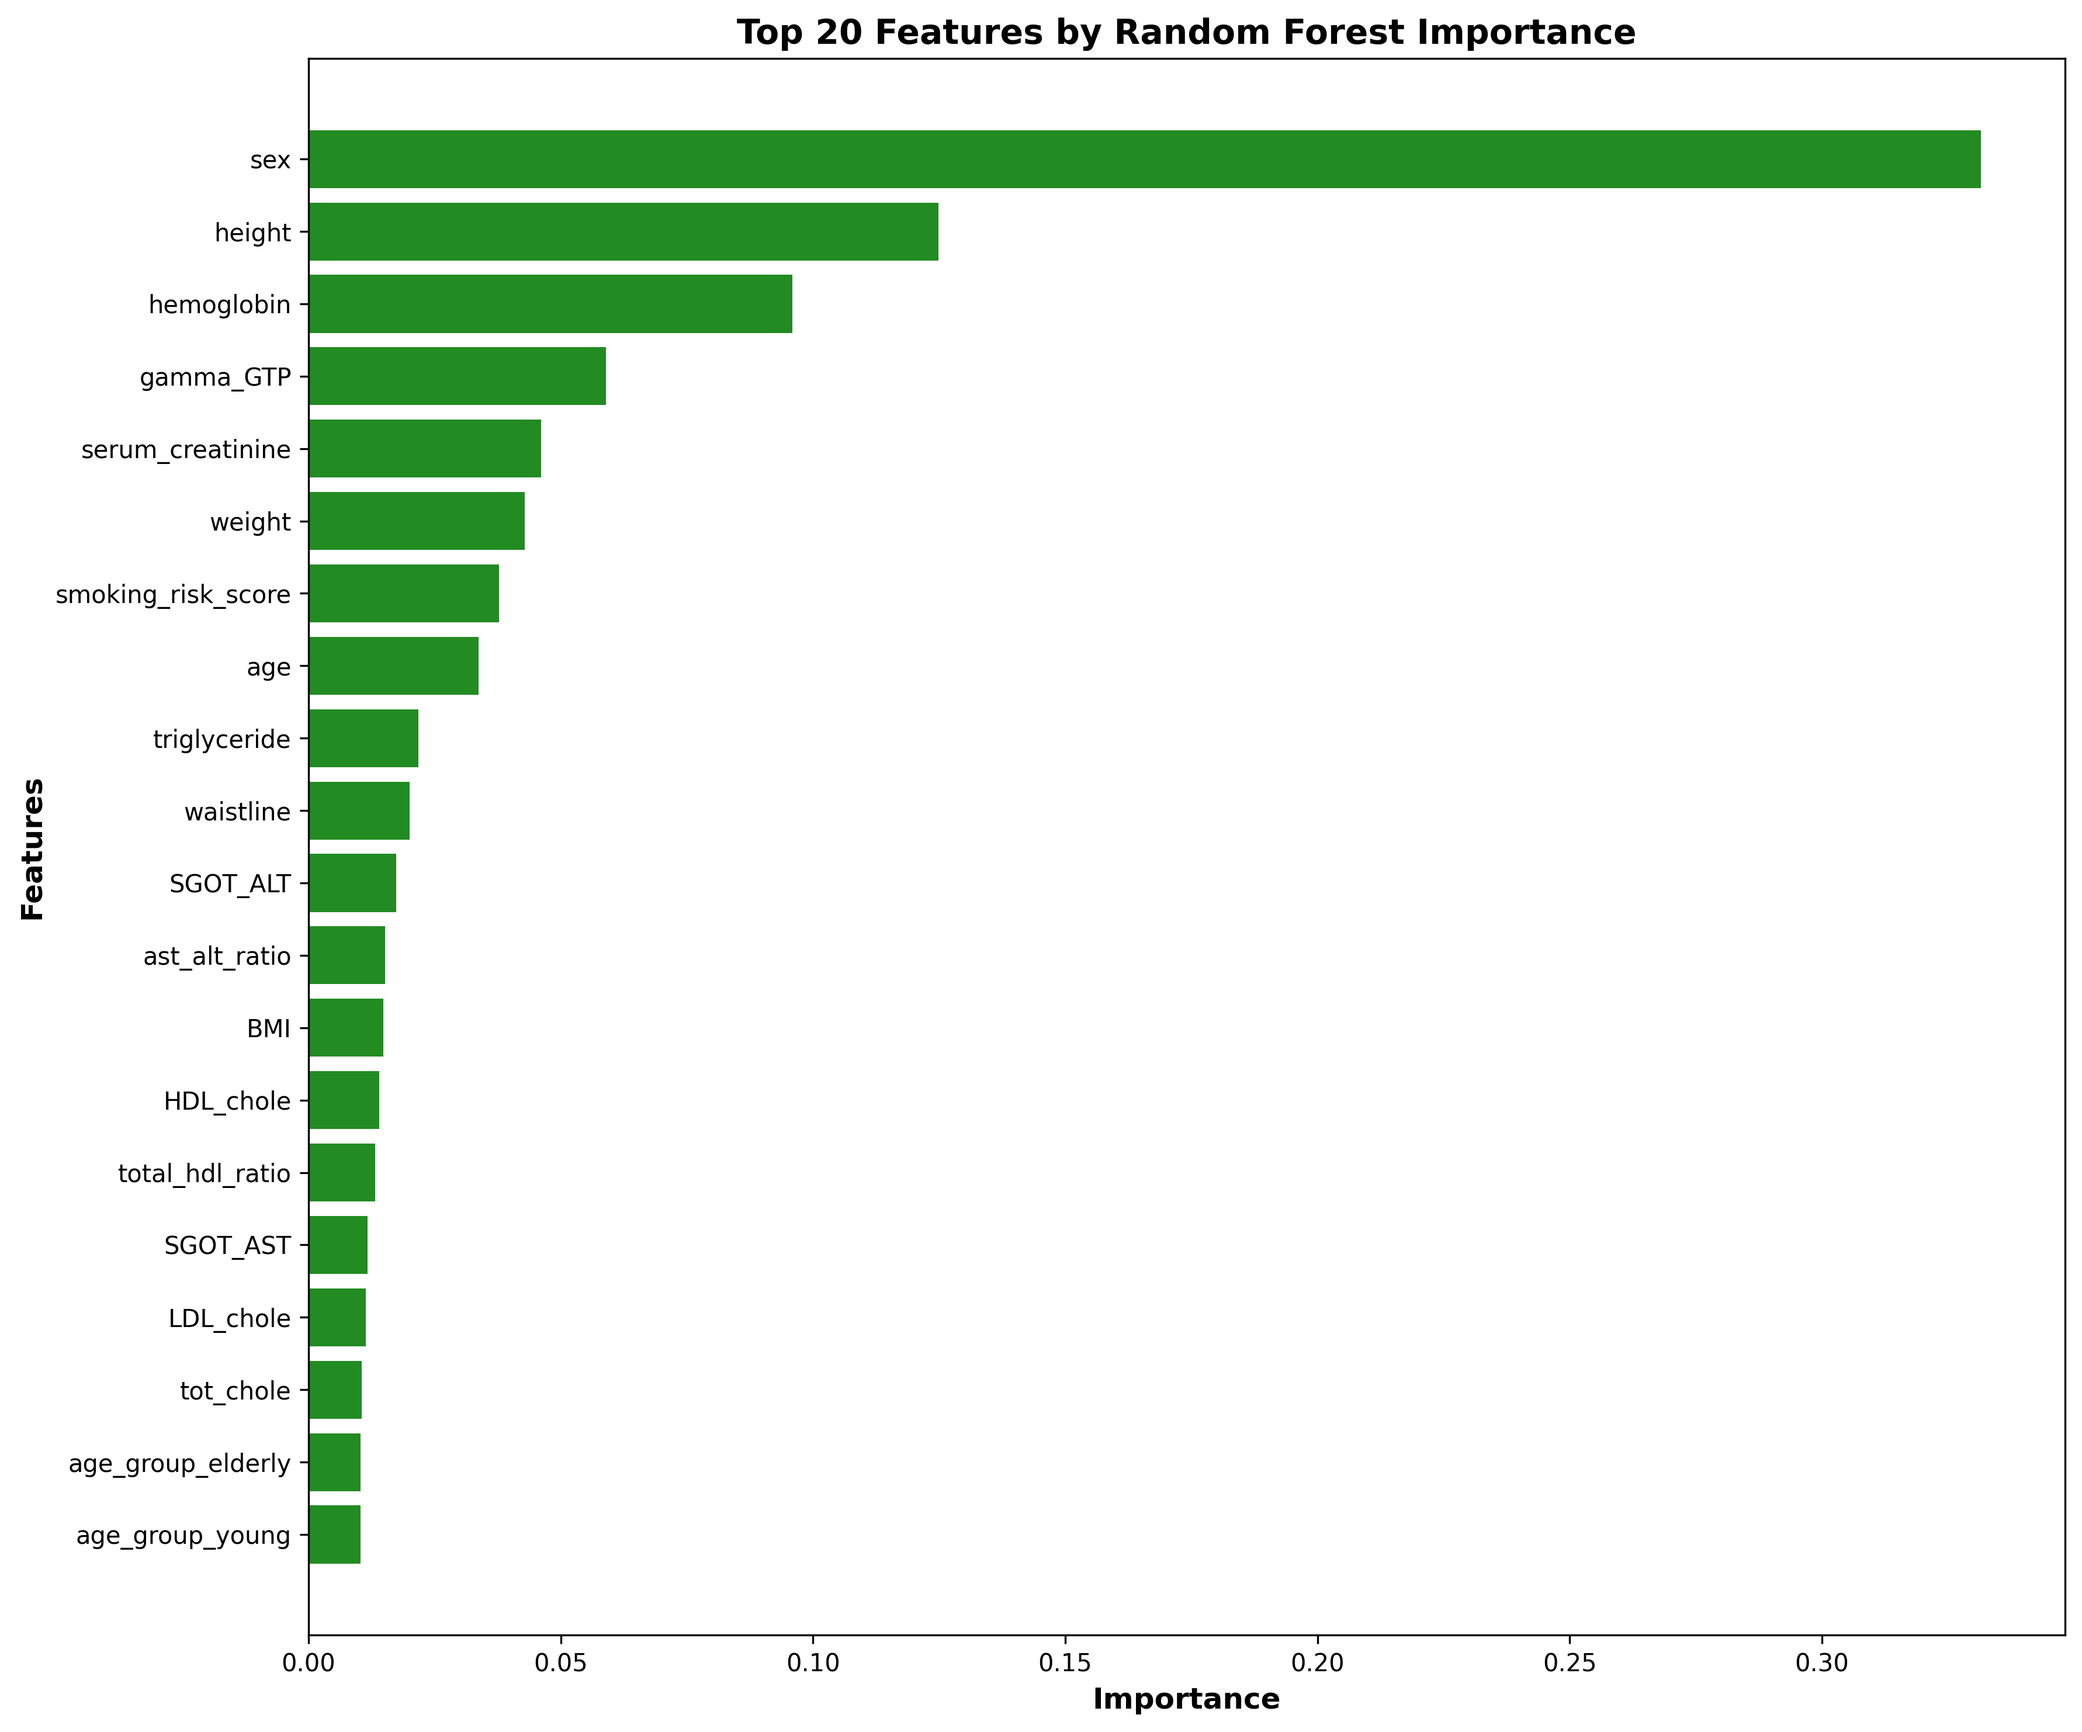
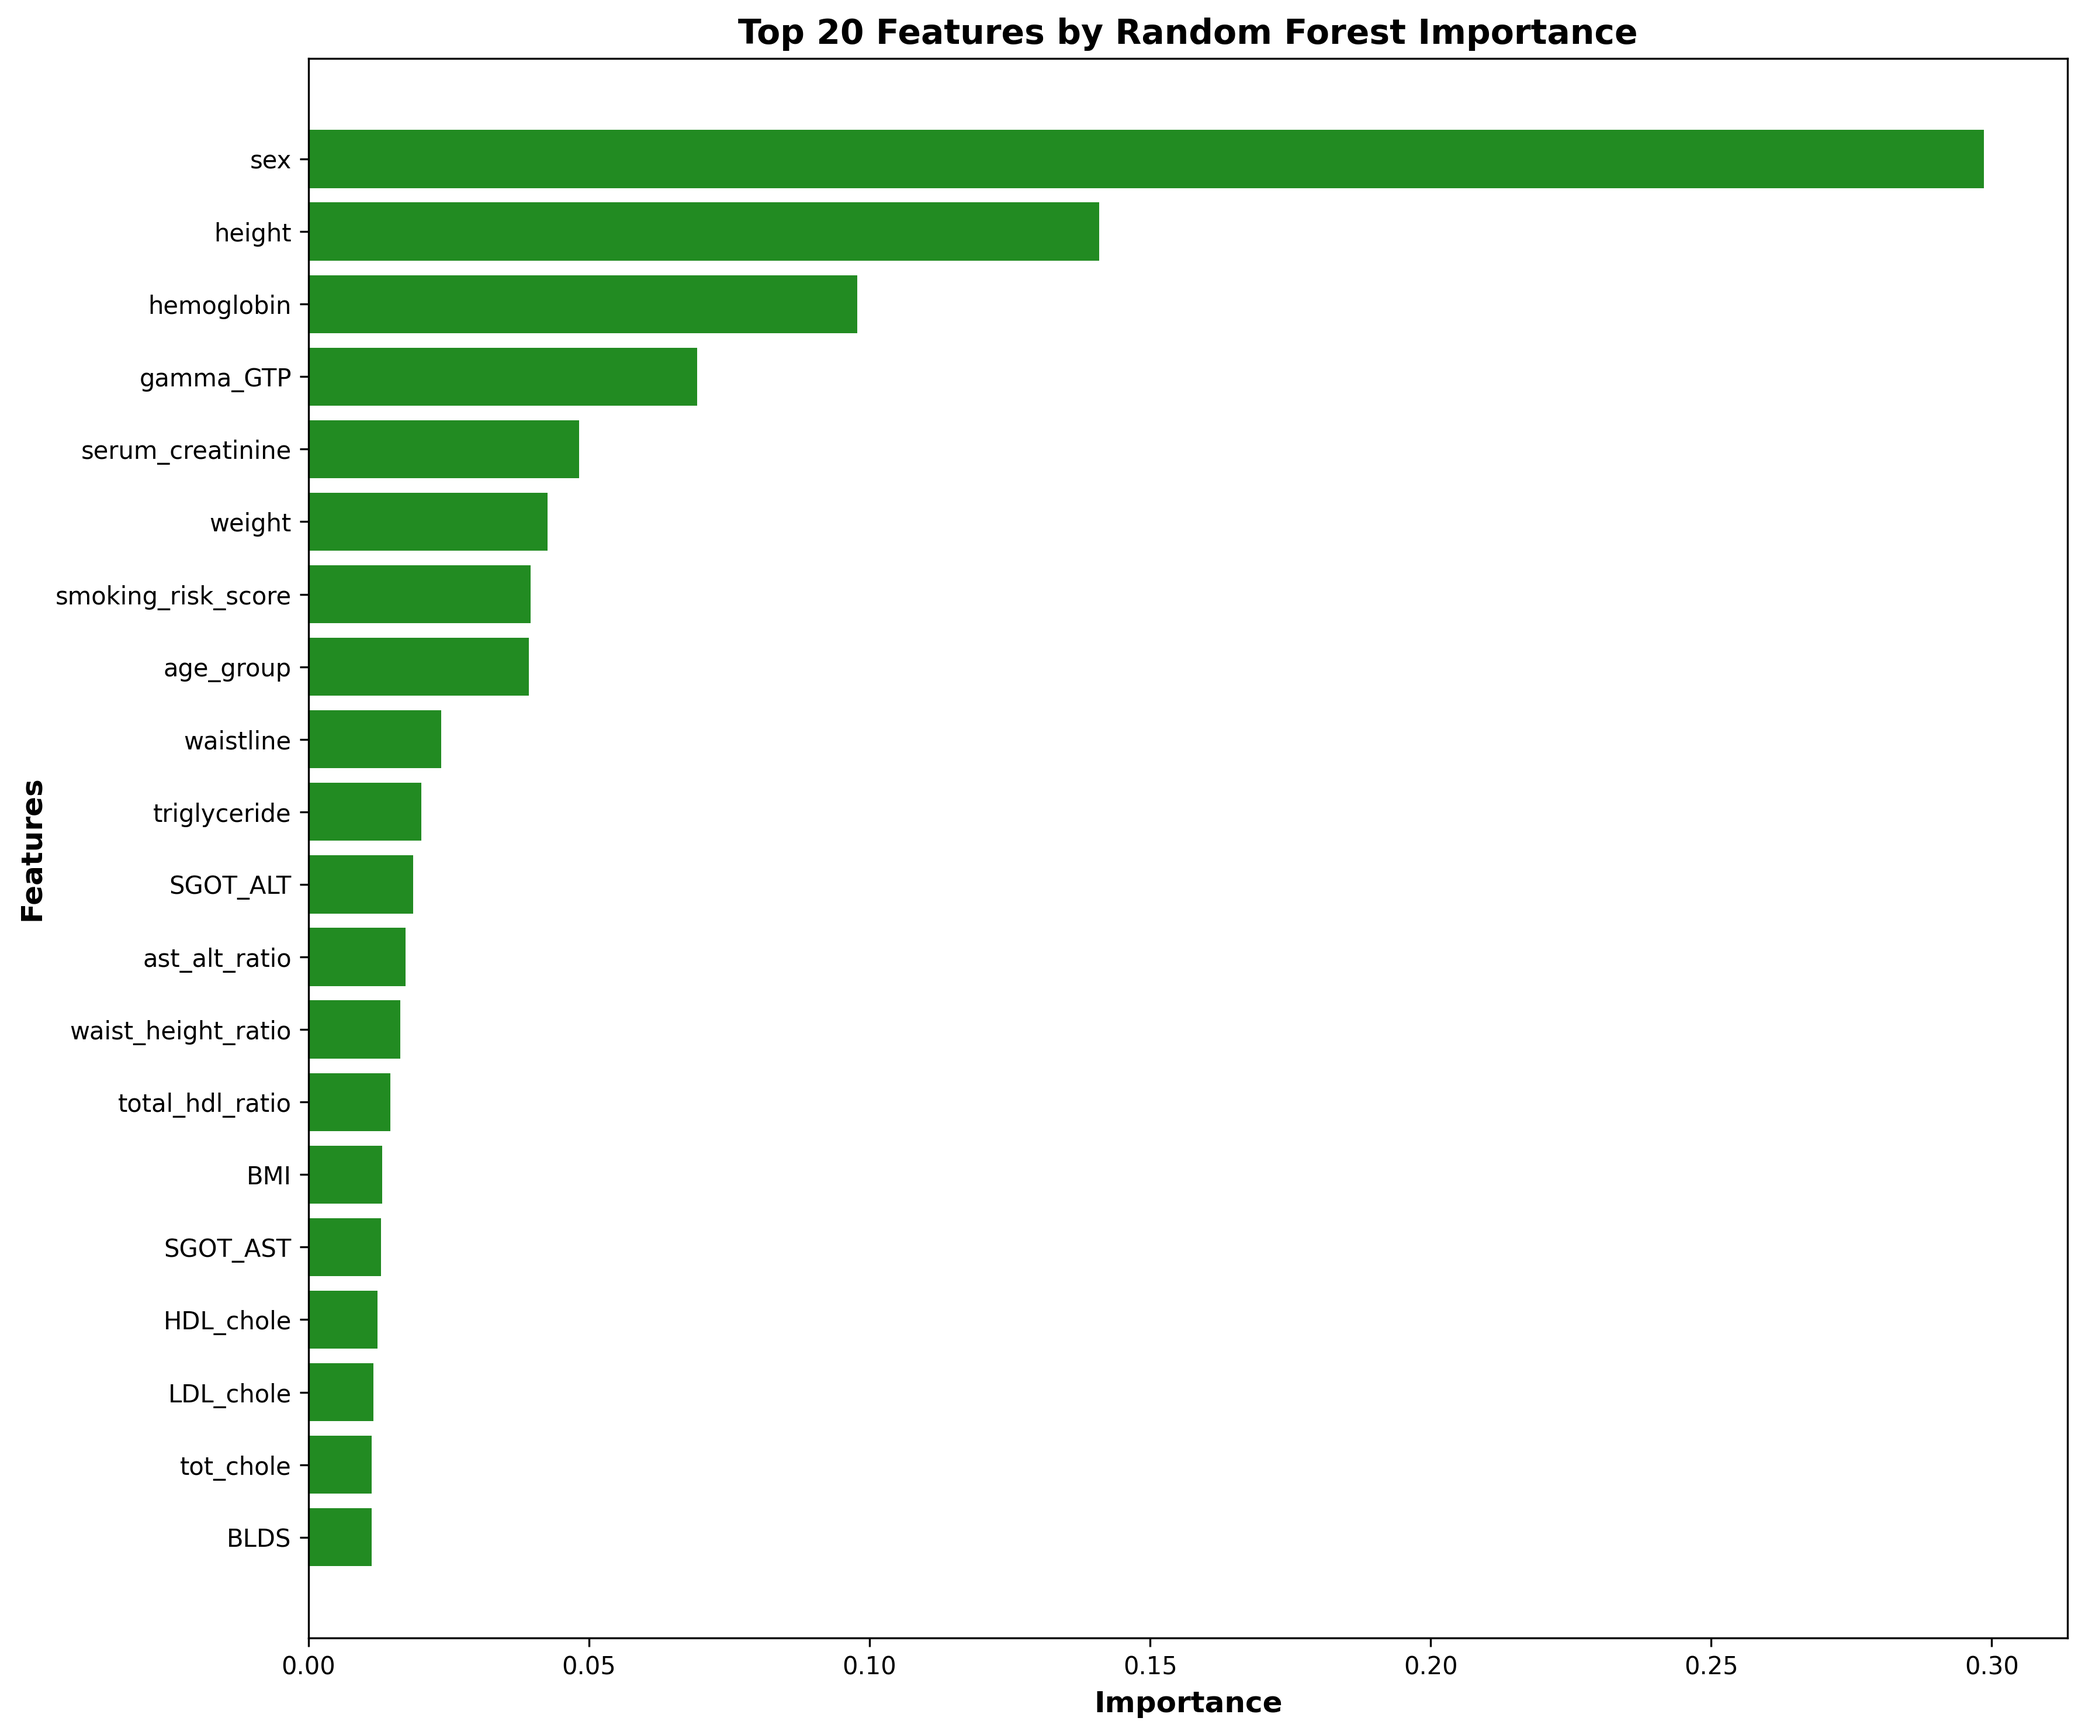
små endringer

diff --git a/features/select_features.py b/features/select_features.py
@@ -49,20 +49,24 @@ print("="*80)
 # Check for categorical columns
 categorical_cols = X.select_dtypes(include=['object', 'category']).columns.tolist()
 
+# IMPORTANT: age_group is already numeric (0, 1, 2, 3) - don't encode it!
+if 'age_group' in categorical_cols:
+    categorical_cols.remove('age_group')
+    print("ℹ  'age_group' is already numeric - skipping encoding")
+
 if categorical_cols:
-    print(f"Found {len(categorical_cols)} categorical column(s): {categorical_cols}")
+    print(f"Found {len(categorical_cols)} categorical column(s) to encode: {categorical_cols}")
     
-    # One-hot encode age_group
-    if 'age_group' in categorical_cols:
-        print("\nOne-hot encoding 'age_group'...")
-        age_group_dummies = pd.get_dummies(X['age_group'], prefix='age_group', drop_first=True)
-        print(f"  Created {len(age_group_dummies.columns)} dummy variables:")
-        for col in age_group_dummies.columns:
-            print(f"    • {col}")
+    for col in categorical_cols:
+        print(f"\nOne-hot encoding '{col}'...")
+        col_dummies = pd.get_dummies(X[col], prefix=col, drop_first=True)
+        print(f"  Created {len(col_dummies.columns)} dummy variables:")
+        for dummy_col in col_dummies.columns:
+            print(f"    • {dummy_col}")
         
         # Drop original and add dummies
-        X = X.drop('age_group', axis=1)
-        X = pd.concat([X, age_group_dummies], axis=1)
+        X = X.drop(col, axis=1)
+        X = pd.concat([X, col_dummies], axis=1)
 else:
     print("No categorical columns found - all features are already numeric")
 
@@ -71,10 +75,31 @@ print(f"\n✓ After encoding: {X.shape[1]} features")
 # Verify all numeric
 non_numeric = X.select_dtypes(exclude=[np.number]).columns.tolist()
 if non_numeric:
-    print(f"\n❌ WARNING: Non-numeric columns remain: {non_numeric}")
+    print(f"\nWARNING: Non-numeric columns remain: {non_numeric}")
 else:
-    print("✓ All features verified as numeric\n")
+    print("✓ All features verified as numeric")
+    
+# Verify age_group is present
+if 'age_group' in X.columns:
+    print(f"✓ age_group present with values: {sorted(X['age_group'].unique())}\n")
+else:
+    print("⚠  WARNING: age_group not found in features!\n")
 
+
+if 'age' in X.columns:
+    print("\nRationale:")
+    print("  • age_group is a categorical binned version of age")
+    print("  • age_group captures non-linear age effects better for smoking prediction")
+    print("  • Keeping both would introduce multicollinearity")
+    print("  • Domain knowledge suggests age categories are more meaningful than continuous age")
+    
+    X = X.drop('age', axis=1)
+    print(f"\n✓ Dropped 'age', keeping 'age_group'")
+    print(f"✓ Features remaining: {X.shape[1]}")
+else:
+    print("\n'age' column not found - skipping")
+
+    
 # ============================================
 # 3. METHOD 1: CORRELATION ANALYSIS
 # ============================================

diff --git a/features/extract_features.py b/features/extract_features.py
@@ -6,7 +6,7 @@ import numpy as np
 # ============================================
 # 1. LOAD DATA
 # ============================================
-df = pd.read_csv('datasets/smoking_drinking_numeric.csv')  # Adjust your filename
+df = pd.read_csv('datasets/smoking_drinking_filtered.csv')  # Adjust your filename
 
 print(f"Original feature count: {len(df.columns)}")
 print(f"Dataset shape: {df.shape}\n")
@@ -53,7 +53,7 @@ print("✓ Created ldl_hdl_ratio")
 def smoking_risk_score(row):
     score = 0
     if row['hemoglobin'] > 16: score += 2
-    if row['gamma_GTP'] > 60: score += 2  # ✅ FIXED: gamma_GTP not gamma_GT
+    if row['gamma_GTP'] > 60: score += 2  # FIXED: gamma_GTP not gamma_GT
     if row['HDL_chole'] < 40: score += 1
     if row['triglyceride'] > 150: score += 1
     return score
@@ -69,13 +69,13 @@ df['metabolic_syndrome_count'] = (
     (df['SBP'] >= 130).astype(int) +
     (df['BLDS'] > 100).astype(int)
 )
-print("✓ Created metabolic_syndrome_count")
+print("Created metabolic_syndrome_count")
 
 # 11. Age Groups
 df['age_group'] = pd.cut(df['age'], 
-                         bins=[0, 30, 40, 50, 60, 100],
-                         labels=['young', '30s', '40s', '50s', 'elderly'])
-print("✓ Created age_group")
+                         bins=[0, 30, 50, 70, 110],
+                         labels=[0, 1, 2, 3]).astype(int)
+print("Created age_group")
 
 # 12. Elevated Hemoglobin Indicator
 # Assuming sex: 1=male, 0=female (adjust if different)
@@ -83,7 +83,7 @@ df['elevated_hemoglobin'] = (
     ((df['sex'] == 1) & (df['hemoglobin'] > 17)) |
     ((df['sex'] == 0) & (df['hemoglobin'] > 15))
 ).astype(int)
-print("✓ Created elevated_hemoglobin")
+print("Created elevated_hemoglobin")
 
 # ============================================
 # 3. SUMMARY
@@ -114,3 +114,9 @@ print(f"{'='*60}\n")
 # Show sample of new features
 print("Sample of extracted features:")
 print(df[['BMI', 'total_hdl_ratio', 'smoking_risk_score', 'age_group']].head())
+
+# At the end of extract_features.py
+print("\nVerifying age_group column:")
+print(f"  Data type: {df['age_group'].dtype}")
+print(f"  Unique values: {sorted(df['age_group'].unique())}")
+print(f"  Value counts:\n{df['age_group'].value_counts().sort_index()}")

diff --git a/features/verfiy_csv.py b/features/verfiy_csv.py
@@ -1,0 +1,34 @@
+import pandas as pd
+
+# Load the saved file to verify
+df = pd.read_csv('datasets/feature_extracted_data.csv')
+
+print("="*60)
+print("VERIFYING SAVED CSV FILE")
+print("="*60)
+print(f"\nTotal columns: {len(df.columns)}")
+print(f"Dataset shape: {df.shape}")
+
+print("\nAll columns in CSV:")
+for i, col in enumerate(df.columns, 1):
+    print(f"  {i:2d}. {col}")
+
+print("\nChecking age_group column:")
+if 'age_group' in df.columns:
+    print("  ✓ age_group EXISTS in CSV")
+    print(f"  Data type: {df['age_group'].dtype}")
+    print(f"  Value counts:\n{df['age_group'].value_counts().sort_index()}")
+    print(f"  Sample values: {df['age_group'].head(10).tolist()}")
+else:
+    print("  ✗ age_group NOT FOUND in CSV")
+
+print("\nNew features present:")
+new_features = [
+    'BMI', 'total_hdl_ratio', 'pulse_pressure', 'ast_alt_ratio',
+    'atherogenic_index', 'waist_height_ratio', 'MAP', 'ldl_hdl_ratio',
+    'smoking_risk_score', 'metabolic_syndrome_count', 'age_group',
+    'elevated_hemoglobin'
+]
+for feat in new_features:
+    status = "✓" if feat in df.columns else "✗"
+    print(f"  {status} {feat}")

diff --git a/Datacleaning/preprossecing.py b/Datacleaning/preprossecing.py
@@ -1,7 +1,7 @@
 import pandas as pd
 import numpy as np
 
-sd_df = pd.read_csv("./smoking_drinking_numeric.csv")
+sd_df = pd.read_csv("datasets/smoking_drinking_numeric.csv")
 
 
 print("\n")
@@ -22,6 +22,7 @@ print("\n")
 
 # Define clinically meaningful ranges
 medical_ranges = {
+    "waistline": (30,150),
     'SBP': (70, 200),            # Systolic blood pressure
     'DBP': (40, 130),            # Diastolic blood pressure
     'BLDS': (50, 300),           # Blood sugar
@@ -60,5 +61,5 @@ for col, (low, high) in medical_ranges.items():
 
 
 # Save the filtered dataset to a new CSV file
-sd_df.to_csv("smoking_drinking_filtered.csv", index=False)
+sd_df.to_csv("datasets/smoking_drinking_filtered.csv", index=False)
 print("Filtered dataset saved to 'smoking_drinking_filtered.csv'.")

diff --git a/modelling.py b/modelling.py
@@ -98,6 +98,15 @@ print(f"Accuracy: {results['Accuracy'][-1]:.4f}")
 print(f"F1-Score: {results['F1-Score'][-1]:.4f}")
 print(f"ROC-AUC: {results['ROC-AUC'][-1]:.4f}\n")
 
+
+#EXTRACTION OF COEFFICIENTS for transfer learning purposes
+
+"""
+# Get coefficients (weights) for each class
+coefficients = log_reg.coef_  # Shape: (n_classes, n_features)
+intercepts = log_reg.intercept_  # Shape: (n_classes,)
+"""
+
 # -------------------- ALGORITHM 2: DECISION TREE --------------------
 print("="*60)
 print("TRAINING ALGORITHM 2: DECISION TREE")

diff --git a/Datacleaning/label_encoding.py b/Datacleaning/label_encoding.py
@@ -1,7 +1,7 @@
 import pandas as pd
 
 # === 1. Les inn CSV-filen ===
-df = pd.read_csv("./sd_dataset.csv")
+df = pd.read_csv("datasets/sd_dataset.csv")
 
 # === 2. Sjekk unike verdier før encoding (for kontroll) ===
 print("Unique values in 'sex':", df['sex'].unique())
@@ -38,6 +38,6 @@ df = df.drop(columns=cols_to_drop, errors='ignore')
 """
 
 # === 7. Lagre ny fil uten tekstkolonner ===
-df.to_csv("smoking_drinking_numeric.csv", index=False)
+df.to_csv("datasets/smoking_drinking_numeric.csv", index=False)
 
 print("New CSV file")
